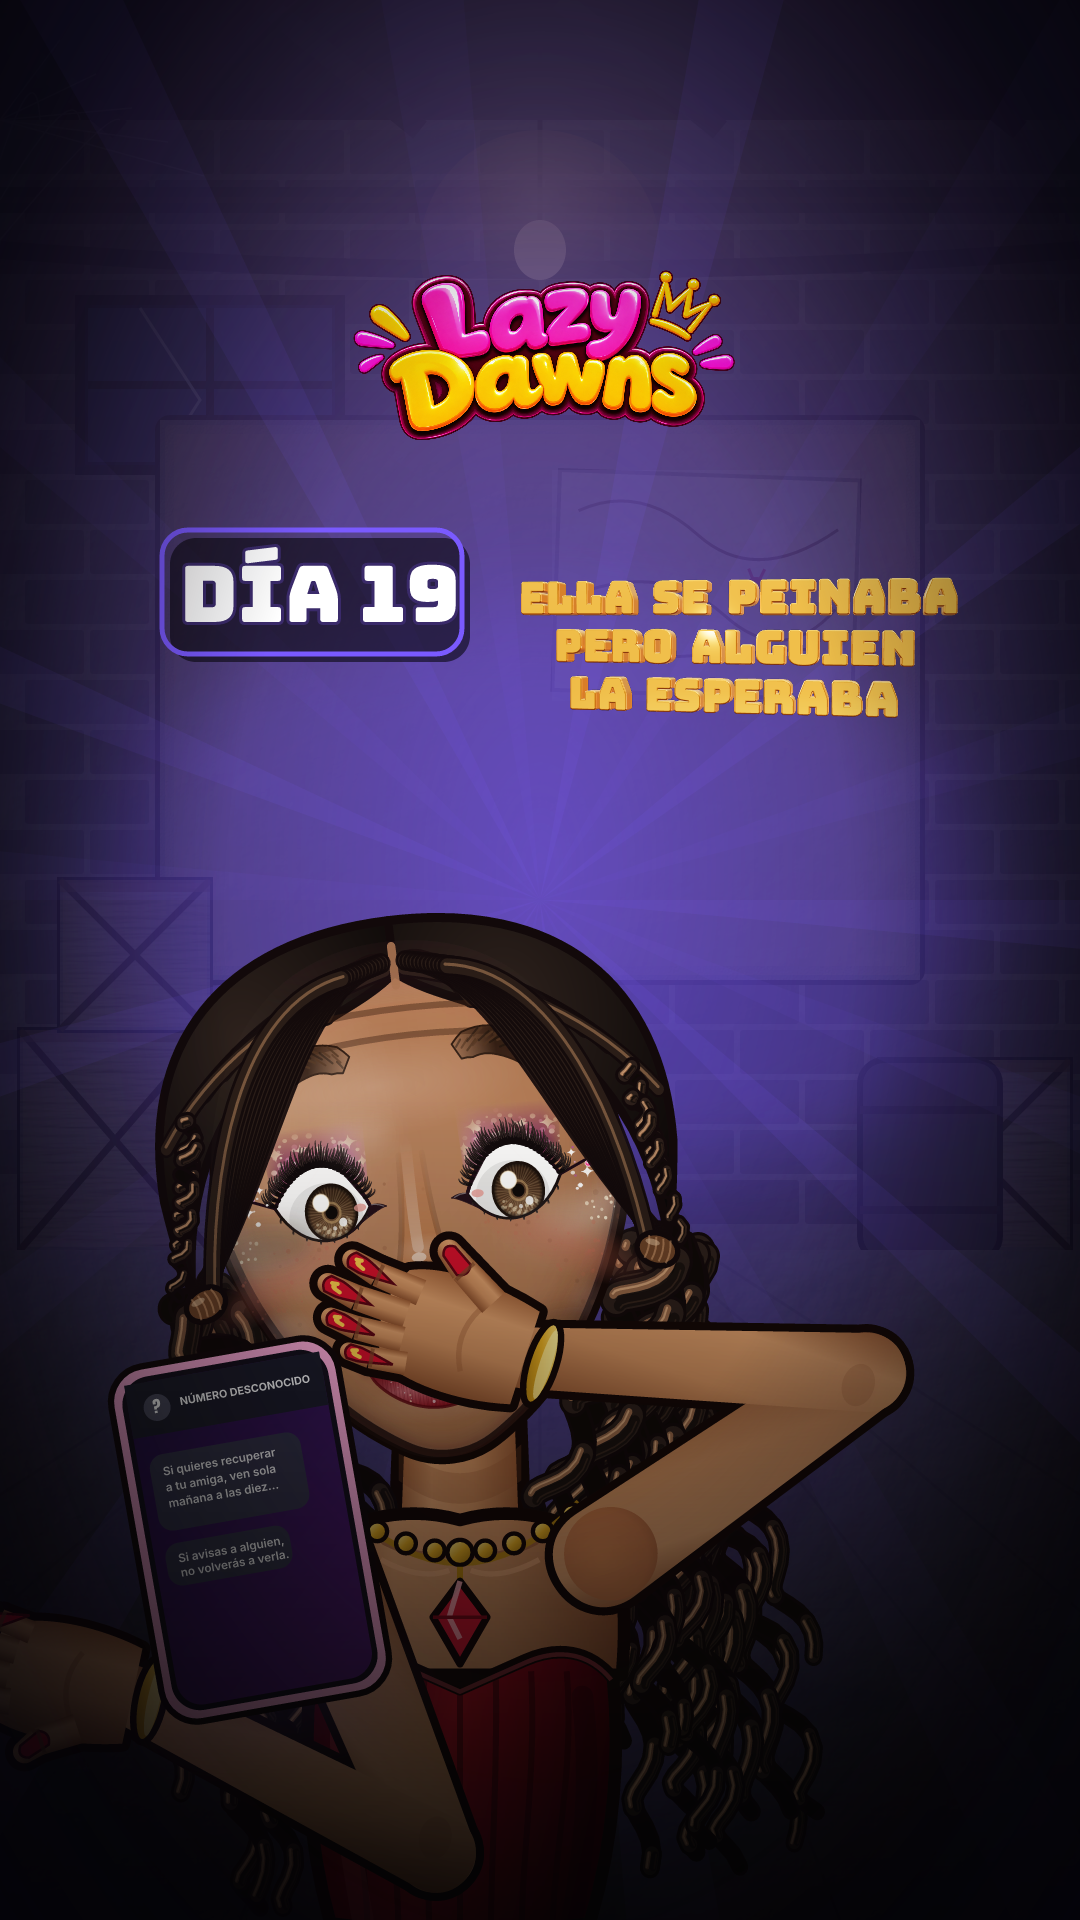
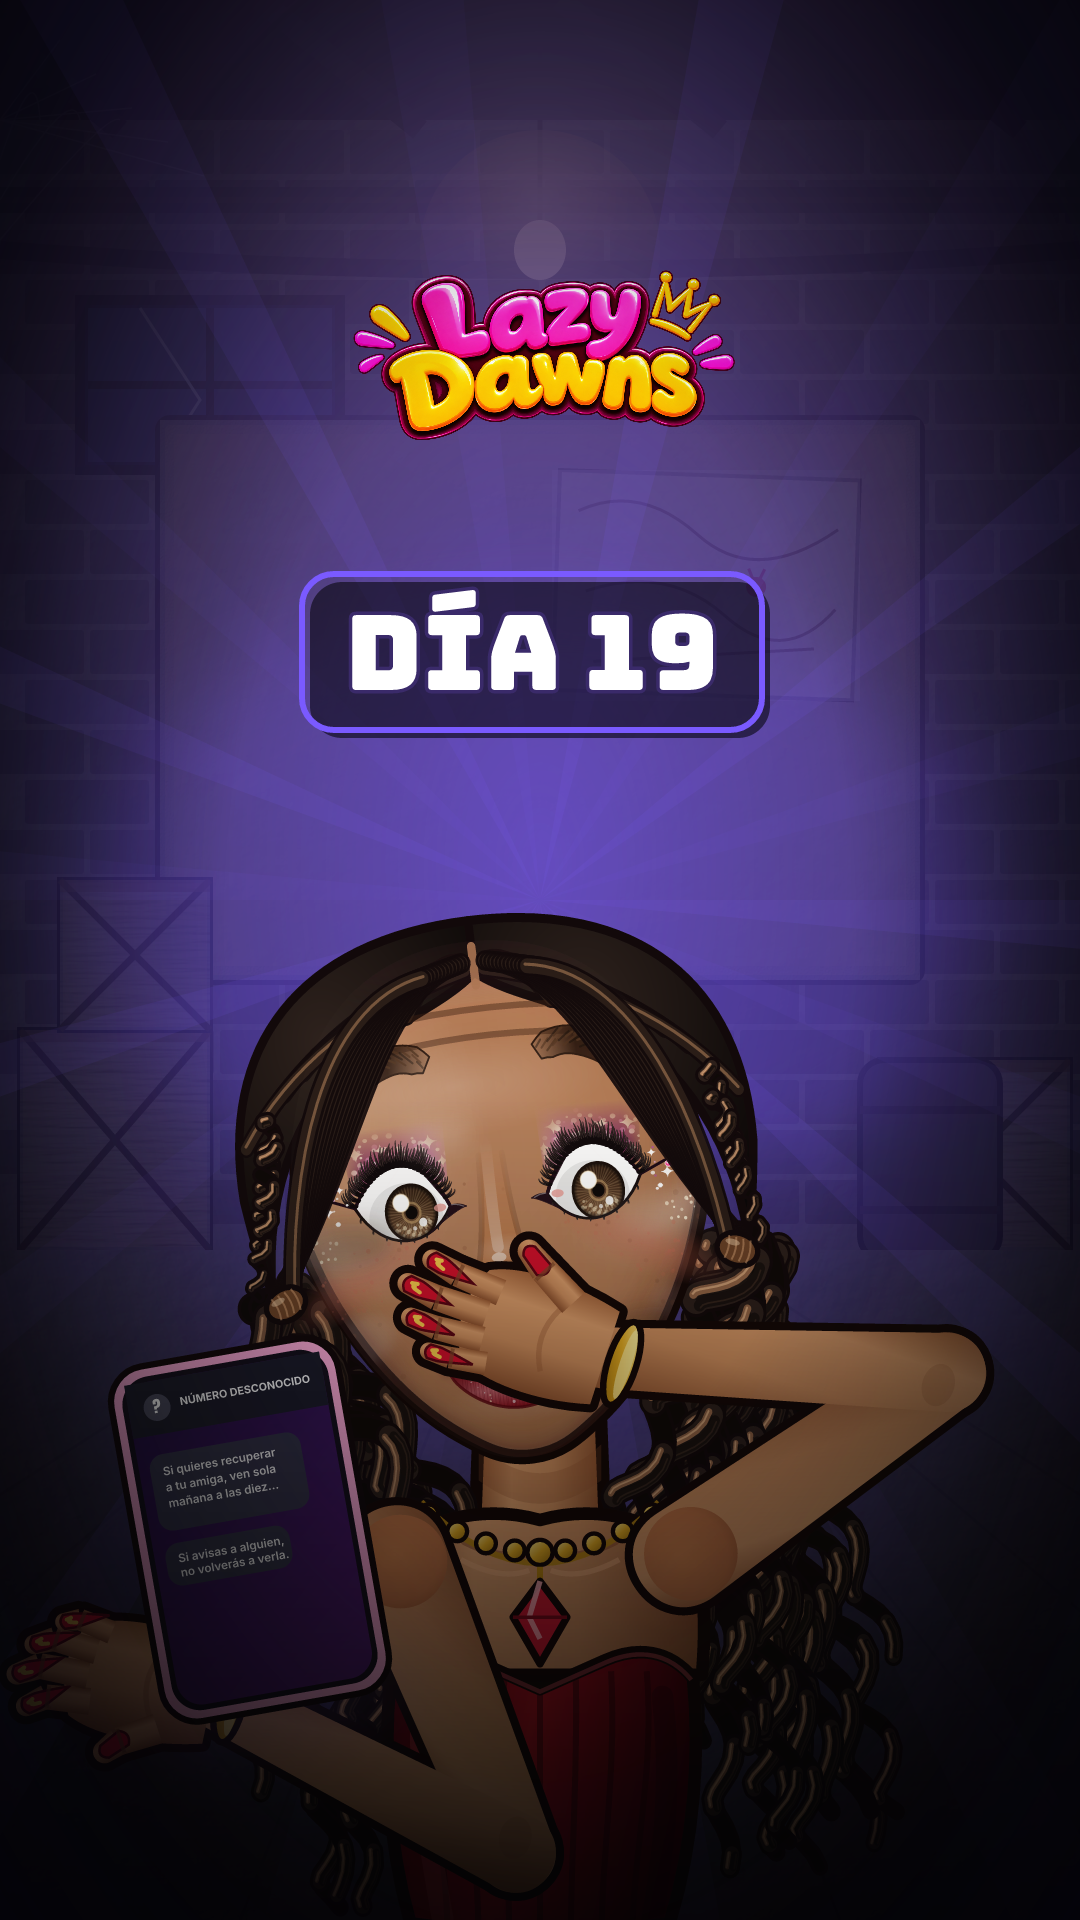
Cover rule (permanent): no title, Lazy centered and DIA N centered; d19 cover
Claude-Session: https://claude.ai/code/session_01VDdbgAKTwVog87zPcVcZjJ

diff --git a/lazy-dawns/README.md b/lazy-dawns/README.md
@@ -274,3 +274,6 @@ Cada voto ofrece 2 opciones del banco de abajo (las que no hayan ganado se recic
 - CIERRE: al final de cada episodio, además de "comenta tu elección" y "sígueme para el día N+1", pedir que COMPARTAN el video (narración + elemento visual de compartir en la tarjeta final).
 - MÚSICA: usar instrumentales de fondo de SUSPENSO/ambiente que cambien según la escena y la emoción (intro oscura; casa tranquila con tensión latente; reveal bello que se vuelve ominoso; mensaje/amenaza con cuerdas en tremolo y latido; tarjeta final con pulso rítmico de intriga). Se generan con la API de ElevenLabs Music (`POST /v1/music`, `prompt` + `music_length_ms`; máx. ~2 llamadas simultáneas por 429) y se mezclan con ducking bajo la voz. SFX nuevos del día por escena.
 - Los tests de la intro: el fondo del cold-open de M/Mari es SIEMPRE distinto y oscuro cada día.
+
+## REGLA PERMANENTE DE PORTADAS (desde Día 19)
+- Sin título del episodio en la portada. Solo: logo arriba, la caja "DÍA N" centrada y Lazy centrada (mitad del cuerpo hacia arriba, pose/reacción únicas). Fondo oscuro; sin extras salvo que se pida. Implementado en `build_cover2.mjs` (`CENTERED` para días ≥ 19).
